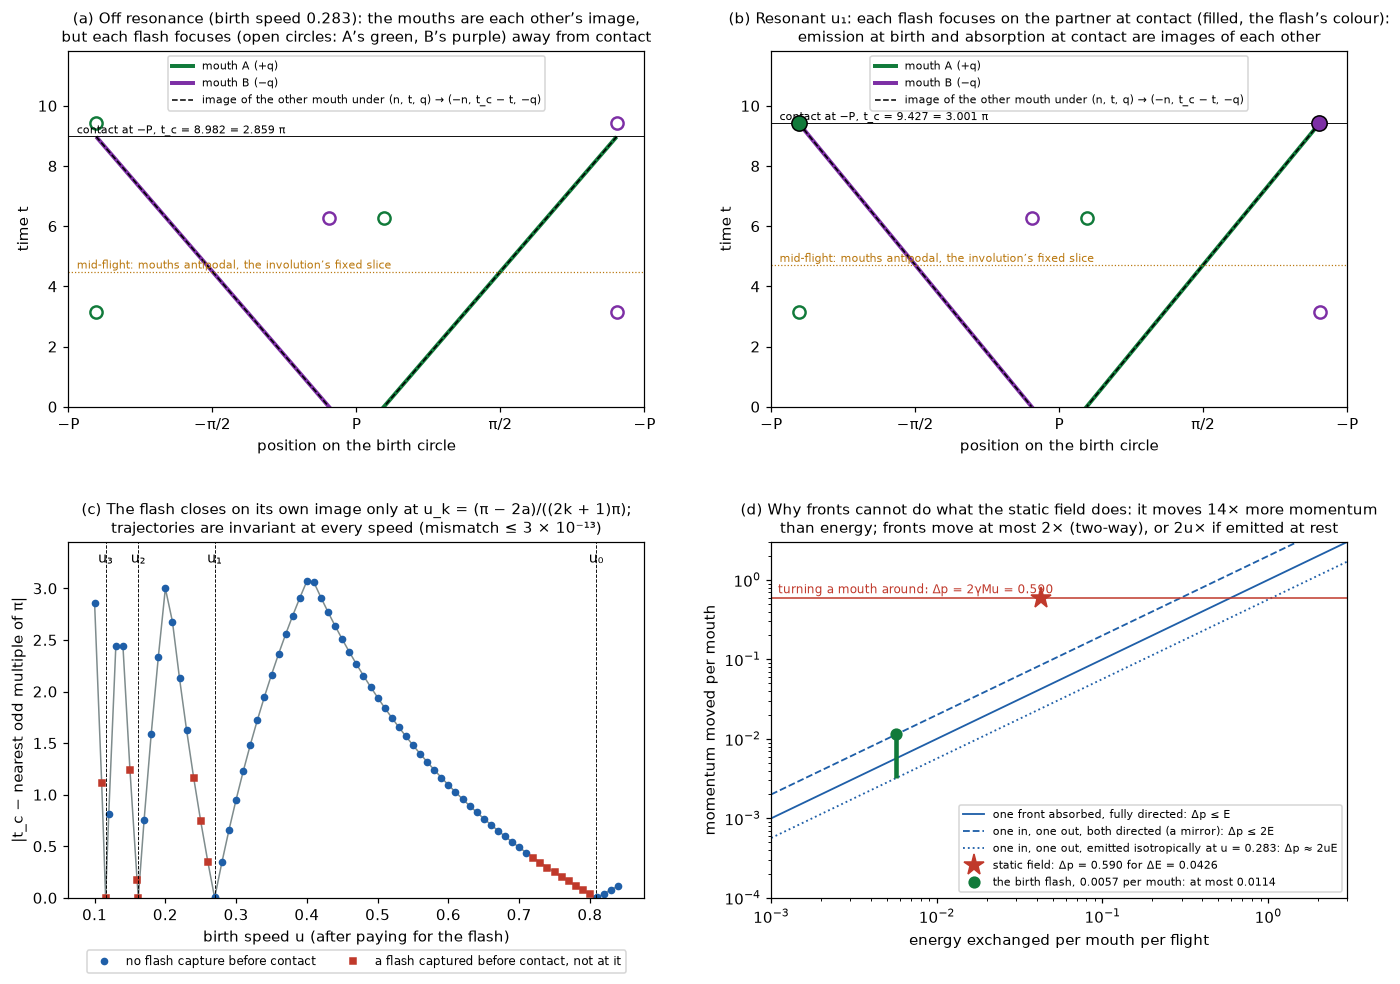
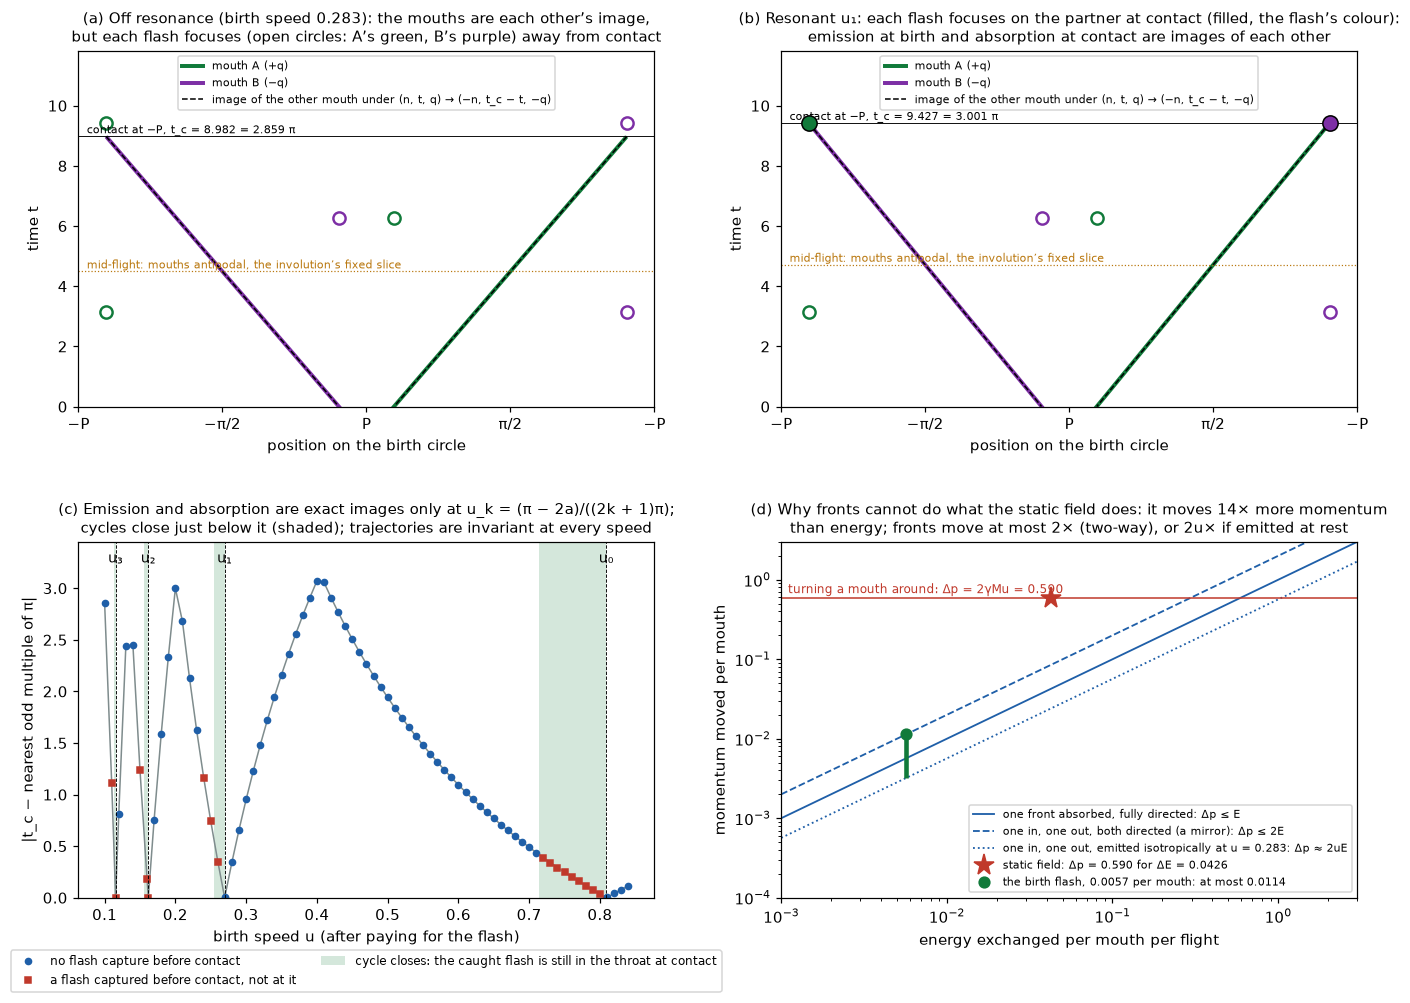
Locate where the strict cycle closes: a band set by the neck length
#349's assessment points out that, with a finite aperture, the partner
also catches the flash before contact over a band below each u_k. A cycle
closes only if that flash is still inside the throat at contact, so its
energy leaves with the release pulse:

    (2k + 1) pi <= t_c <= (2k + 1) pi + a/u  (caught)
    t_c < (2k + 1) pi + L/sqrt(1 - u^2)       (still in the throat)

At a = 0.3: [0.7135, 0.8090] (k = 0), (0.2539, 0.2697] (k = 1),
(0.1561, 0.1618] (k = 2). The bisected edges at k = 1, 2 match these.
Lower in the capture band the flash is caught at 3 pi but leaves the
throat before contact, and fronts accumulate. Exact image invariance
under the antipodal time reversal still holds only at u_k, where focus
and contact coincide and the front counts as caught just before contact.

Adds closure_band and a test, shades the bands in elliptic.png, and
records in section 11 that the quotient does not by itself fix the
half-retarded, half-advanced field (#349 assessment). Tests: 21 + 31 pass.

Claude-Session: https://claude.ai/code/session_01B24ZADnM96CsmBEaJPhgtC

diff --git a/tests/test_antipodal_pair_birth.py b/tests/test_antipodal_pair_birth.py
@@ -5,8 +5,8 @@ import pytest
 from scipy.optimize import brentq
 
 from geometrodynamics.waves.antipodal_pair_birth import (AntipodalPairBirth, AntipodalState, Front,
-                                                         elliptic_mismatch, from_local, local_coordinates,
-                                                         resonant_speeds)
+                                                         closure_band, elliptic_mismatch, from_local,
+                                                         local_coordinates, resonant_speeds)
 from geometrodynamics.waves.pair_birth import Parameters, bare_timeline, birth_frames, birth_positions
 
 COARSE = Parameters(cutoff=12, footprint=.2)
@@ -306,3 +306,18 @@ def test_a_captured_front_moves_a_mouth_by_at_most_its_energy(exchange):
     caps = [e for e in info['events'] if e['kind'] == 'capture']
     assert caps
     assert all(np.linalg.norm(e['kick']) <= e['energy'] + 1e-12 for e in caps)
+
+
+def test_cycle_closes_only_while_the_caught_flash_is_still_in_the_throat_at_contact():
+    # Below u_k the partner still catches the flash at 3 pi, but if the throat releases it before
+    # contact it flies on and the cycle drifts; within the closure band nothing is left over.
+    m = AntipodalPairBirth(COARSE)
+    low, uk = closure_band(m.par.mouth_angle, 1)
+    assert low < uk and (np.pi - 3*m.par.mouth_angle)/(3*np.pi) < low
+    for u, closes in ((low*(1 + 3e-3), True), (low*(1 - 3e-3), False)):
+        h, info = m.run(m.initial(kick_for(m, u)), 3*((np.pi - 2*m.par.mouth_angle)/u + np.pi) - .5, cycles=3, dt=.01)
+        births = [e for e in info['events'] if e['kind'] == 'birth']
+        first = [e for e in info['events'] if e['kind'] == 'capture' and e['front'].startswith('flash')][:2]
+        assert [round(e['time']/np.pi, 9) for e in first] == [3., 3.]     # caught at 3 pi either way
+        spread = max(abs(e['speed'][0] - u) for e in births)
+        assert (spread < 1e-12) == closes

diff --git a/experiments/closure_ledger/pair_birth_report.py b/experiments/closure_ledger/pair_birth_report.py
@@ -1093,15 +1093,19 @@ def figure_elliptic(data, path):
     ax.plot(u, mis, '-', color='#7f8c8d', lw=1)
     ax.plot(u[~early], mis[~early], 'o', color='#1f5fa8', ms=4, label='no flash capture before contact')
     ax.plot(u[early], mis[early], 's', color='#c0392b', ms=4, label='a flash captured before contact, not at it')
+    from geometrodynamics.waves.antipodal_pair_birth import closure_band
     for k, uk in enumerate(data['meta']['resonant_speeds']):
         if uk > u.min() - .01:
+            low, _ = closure_band(A, k)
+            ax.axvspan(low, uk, color='#117a3a', alpha=.18, lw=0,
+                       label='cycle closes: the caught flash is still in the throat at contact' if k == 0 else None)
             ax.axvline(uk, color='k', lw=.6, ls='--')
             ax.text(uk, 3.25, f'u{"₀₁₂₃"[k]}', ha='center', fontsize=9)
     ax.set_ylim(0, 3.45)
     ax.set_xlabel('birth speed u (after paying for the flash)')
     ax.set_ylabel('|t_c − nearest odd multiple of π|')
-    ax.set_title('(c) The flash closes on its own image only at u_k = (π − 2a)/((2k + 1)π);\n'
-                 'trajectories are invariant at every speed (mismatch ≤ 3 × 10⁻¹³)', fontsize=10)
+    ax.set_title('(c) Emission and absorption are exact images only at u_k = (π − 2a)/((2k + 1)π);\n'
+                 'cycles close just below it (shaded); trajectories are invariant at every speed', fontsize=10)
     ax.legend(fontsize=8, loc='upper center', bbox_to_anchor=(.5, -.13), ncol=2)
 
     ax = axes[1, 1]

diff --git a/geometrodynamics/waves/antipodal_pair_birth.py b/geometrodynamics/waves/antipodal_pair_birth.py
@@ -606,6 +606,22 @@ def resonant_speeds(mouth_angle, count=4):
     return (np.pi - 2*mouth_angle)/((2*np.arange(count) + 1)*np.pi)
 
 
+def closure_band(mouth_angle, k, length=None):
+    """Birth speeds (u_low, u_k] at which a symmetric strict cycle closes on itself: the partner
+    catches each flash at its (2k + 1)-th focus, (2k + 1) pi <= t_c <= (2k + 1) pi + a/u (inside
+    the aperture, before contact), and the caught energy is still
+    inside the throat when the rims touch, t_c < (2k + 1) pi + L/sqrt(1 - u^2), so it leaves with
+    the release pulse. Only the upper end, u_k, makes emission and absorption exact images; there
+    focus and contact coincide, and the front counts as caught just before contact."""
+    from scipy.optimize import brentq
+    a = mouth_angle
+    L = np.sin(2*a) if length is None else length
+    uk = (np.pi - 2*a)/((2*k + 1)*np.pi)
+    throat = brentq(lambda u: (np.pi - 2*a)/u - (2*k + 1)*np.pi - L/np.sqrt(1 - u*u), 1e-6, uk*(1 - 1e-12),
+                    xtol=1e-15)
+    return max(throat, (np.pi - 3*a)/((2*k + 1)*np.pi)), uk     # and the flash must be caught at all
+
+
 def _slerp_history(t, x, when):
     """Position at time `when` on a recorded strict history. Between events the strict flight is
     a constant-speed geodesic, so slerp between consecutive samples is exact there."""

diff --git a/docs/pair_birth_timeline.md b/docs/pair_birth_timeline.md
@@ -107,9 +107,10 @@ A classical experiment on #345, answering the acceptance test set in its review 
 12. **Under antipodal time reversal, the strict cycle is one mouth's history** (§11).
     - **The identification.** (n, t, q) → (−n, t_c − t, −q) maps every symmetric strict flight
       onto itself: birth at P onto contact at −P, mouth A onto mouth B.
-    - **Closure.** With the flash included, the history is invariant only at the birth speeds
-      u_k = (π − 2a)/((2k + 1)π), where each flash is caught by the partner exactly at contact.
-      There the cycle repeats exactly with nothing left over.
+    - **Closure.** With the flash included, the history is an exact image of itself only at the
+      birth speeds u_k = (π − 2a)/((2k + 1)π), where each flash is caught by the partner at
+      contact. Cycles repeat exactly, with nothing left over, in a band just below each u_k whose
+      width the neck length sets.
     - **No return needed.** In the quotient the pair is one mouth, so its coasting to −P is a
       closure, not a failure to bind. Turning the mouths around with fronts would need about as
       much exchanged energy as the mouths have. The static field does it with 14 times less.
@@ -917,10 +918,22 @@ which exchanges the mouths.
 
       u_k = (π − 2a)/((2k + 1)π) = 0.809, 0.2697, 0.1618, 0.1156, …  at a = 0.3.
 
-  - At u_k the partner catches each flash exactly at contact (panel b).
-  - In the first-return band below u₀ the flash is caught at π, before contact, so those flights
-    are not invariant (panel c).
-- **Resonant cycles repeat exactly; others drift.**
+  - At u_k the partner catches each flash exactly at contact (panel b). Focus and contact then
+    coincide, so the model needs an ordering rule: the front counts as caught just before contact
+    (the runs sit 0.02% below u_k).
+  - With the finite aperture, the partner also catches the flash before contact over a band below
+    each u_k, from (π − 3a)/((2k + 1)π) (#349 assessment). Those flights are not exact images.
+- **Cycles close in a band just below each u_k, and drift elsewhere.** A caught flash enters the
+  throat and leaves the other mouth L/√(1 − u²) later. If that is after contact, its energy leaves
+  with the release pulse and the cycle repeats exactly. If it is before contact, the front flies
+  on and fronts accumulate.
+  - So a cycle closes when the flash is caught at all, (2k + 1)π ≤ t_c ≤ (2k + 1)π + a/u, and
+    its energy is still in the throat at contact, t_c < (2k + 1)π + L/√(1 − u²).
+  - At a = 0.3 that is u in [0.7135, 0.8090] at k = 0, where the throat time exceeds the window
+    (0.7135 is the capture edge). It is (0.2539, 0.2697] at k = 1, (0.1561, 0.1618] at k = 2 and
+    (0.1127, 0.1156] at k = 3.
+  - The measured band edges at k = 1 and 2, and spot checks at k = 0, match this (shaded in
+    panel c).
 
   | cycle | birth speeds, cycles 1–4 | flash at each birth | contacts | flash captures before each contact | fronts in flight after each contact |
   |---|---|---|---|---|---|
@@ -938,8 +951,9 @@ which exchanges the mouths.
 - **Consequence.** In the quotient, A and B are one mouth. Its worldline runs from the birth
   event to the mid-flight slice, where it meets its own image.
   - "Coasting to −P" is then the closure of one mouth's history, not a failure to bind.
-  - The strict cycle is self-consistent at the resonant speeds. This is a classical closure
-    condition on the birth speed, not a quantization assumption.
+  - The strict cycle closes on itself in the bands above, and is an exact image of itself at u_k.
+    This is a classical closure condition on the birth speed, not a quantization assumption. The
+    band width comes from the neck length.
 
 **Why fronts cannot turn the pair around instead** (panel d).
 - **The static field's ratio.** The static field (the §9 control) turns each mouth around. It
@@ -962,6 +976,9 @@ which exchanges the mouths.
     more momentum than energy. Any two-way exchange can.
 
 **Open.**
+- **The field is not fixed by the quotient.** A time-nonorientable quotient does not by itself
+  force the half-retarded, half-advanced field: invariant homogeneous solutions can be added, and
+  boundary data or an absorber condition must fix them (#349 assessment).
 - **The handle under the identification.** In sphere-oriented rim frames the antipodal map acts
   on the rim as a reflection. So a loop through the handle and back through the identification
   is orientation-reversing for one handle type and orientation-preserving for the other. Which
@@ -1001,9 +1018,9 @@ which exchanges the mouths.
 | signed exchange: caps | a capped pull leaves the throat front with \|J\| equal to its energy, and a capped exit leaves the front null; no front ever carries more angular momentum than energy |
 | signed exchange: conservation | energy to 7 × 10⁻¹⁵ in all 22 runs; angular momentum to 2 × 10⁻¹⁵ (planar) and 2 × 10⁻¹⁰ (off-circle, with spin) |
 | antipodal rule: capture windows | first-flight flash captures match the analytic windows (own even returns within a/u of birth, partner odd returns within a/u of contact) at three speeds; the same rule reproduces all 24 captures and 548 empty foci in #349's audit |
-| antipodal time reversal | every symmetric strict flight maps onto itself under (n, t, q) → (−n, t_c − t, −q) to 3 × 10⁻¹³ at 79 speeds; the flash closes on its image only at u_k; resonant cycles repeat speed and flash to 10⁻¹⁶ with no front left; each re-birth sits at its flash's advanced focus |
+| antipodal time reversal | every symmetric strict flight maps onto itself under (n, t, q) → (−n, t_c − t, −q) to 3 × 10⁻¹³ at 79 speeds; the flash closes on its image only at u_k; cycles repeat speed and flash to 10⁻¹⁶ with no front left exactly within (2k + 1)π ≤ t_c < (2k + 1)π + L/√(1 − u²) (band edges at k = 1, 2 match to the bisection's precision; k = 0 spot-checked); each re-birth sits at its flash's advanced focus |
 | null bound | every capture moves its mouth by at most the front's energy, in the rest and signed exchanges |
-| tests | `tests/test_pair_birth.py`: 21 checks; `tests/test_antipodal_pair_birth.py`: 30 checks |
+| tests | `tests/test_pair_birth.py`: 21 checks; `tests/test_antipodal_pair_birth.py`: 31 checks |
 
 ## Against the acceptance test
 
